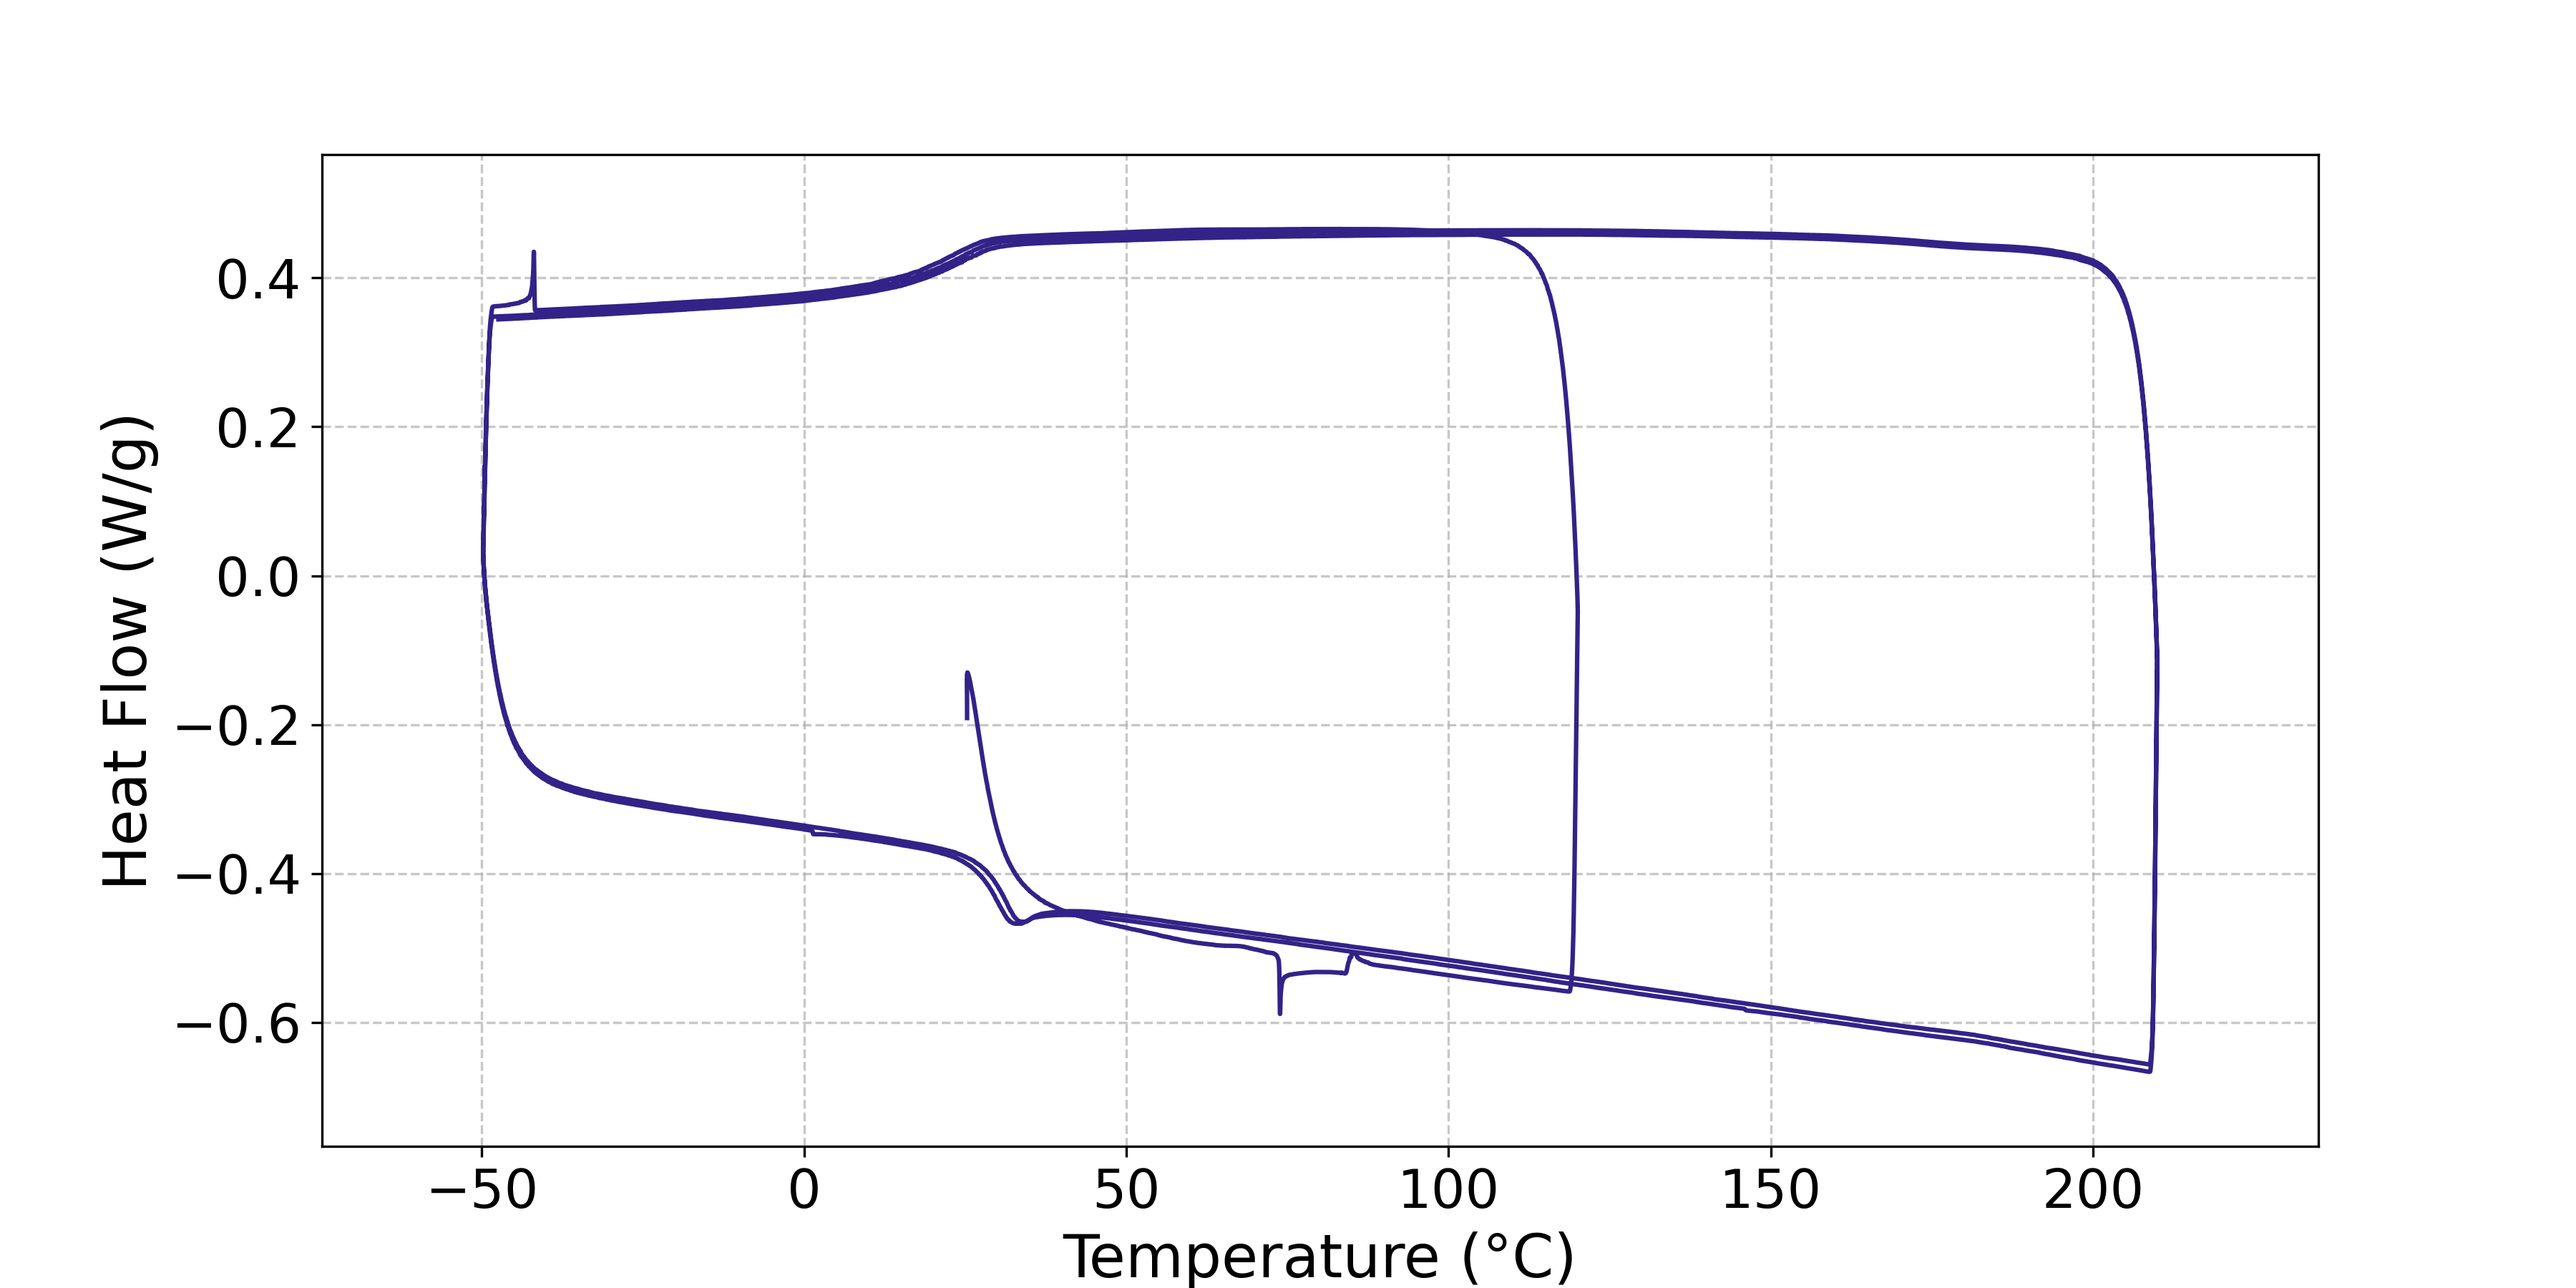
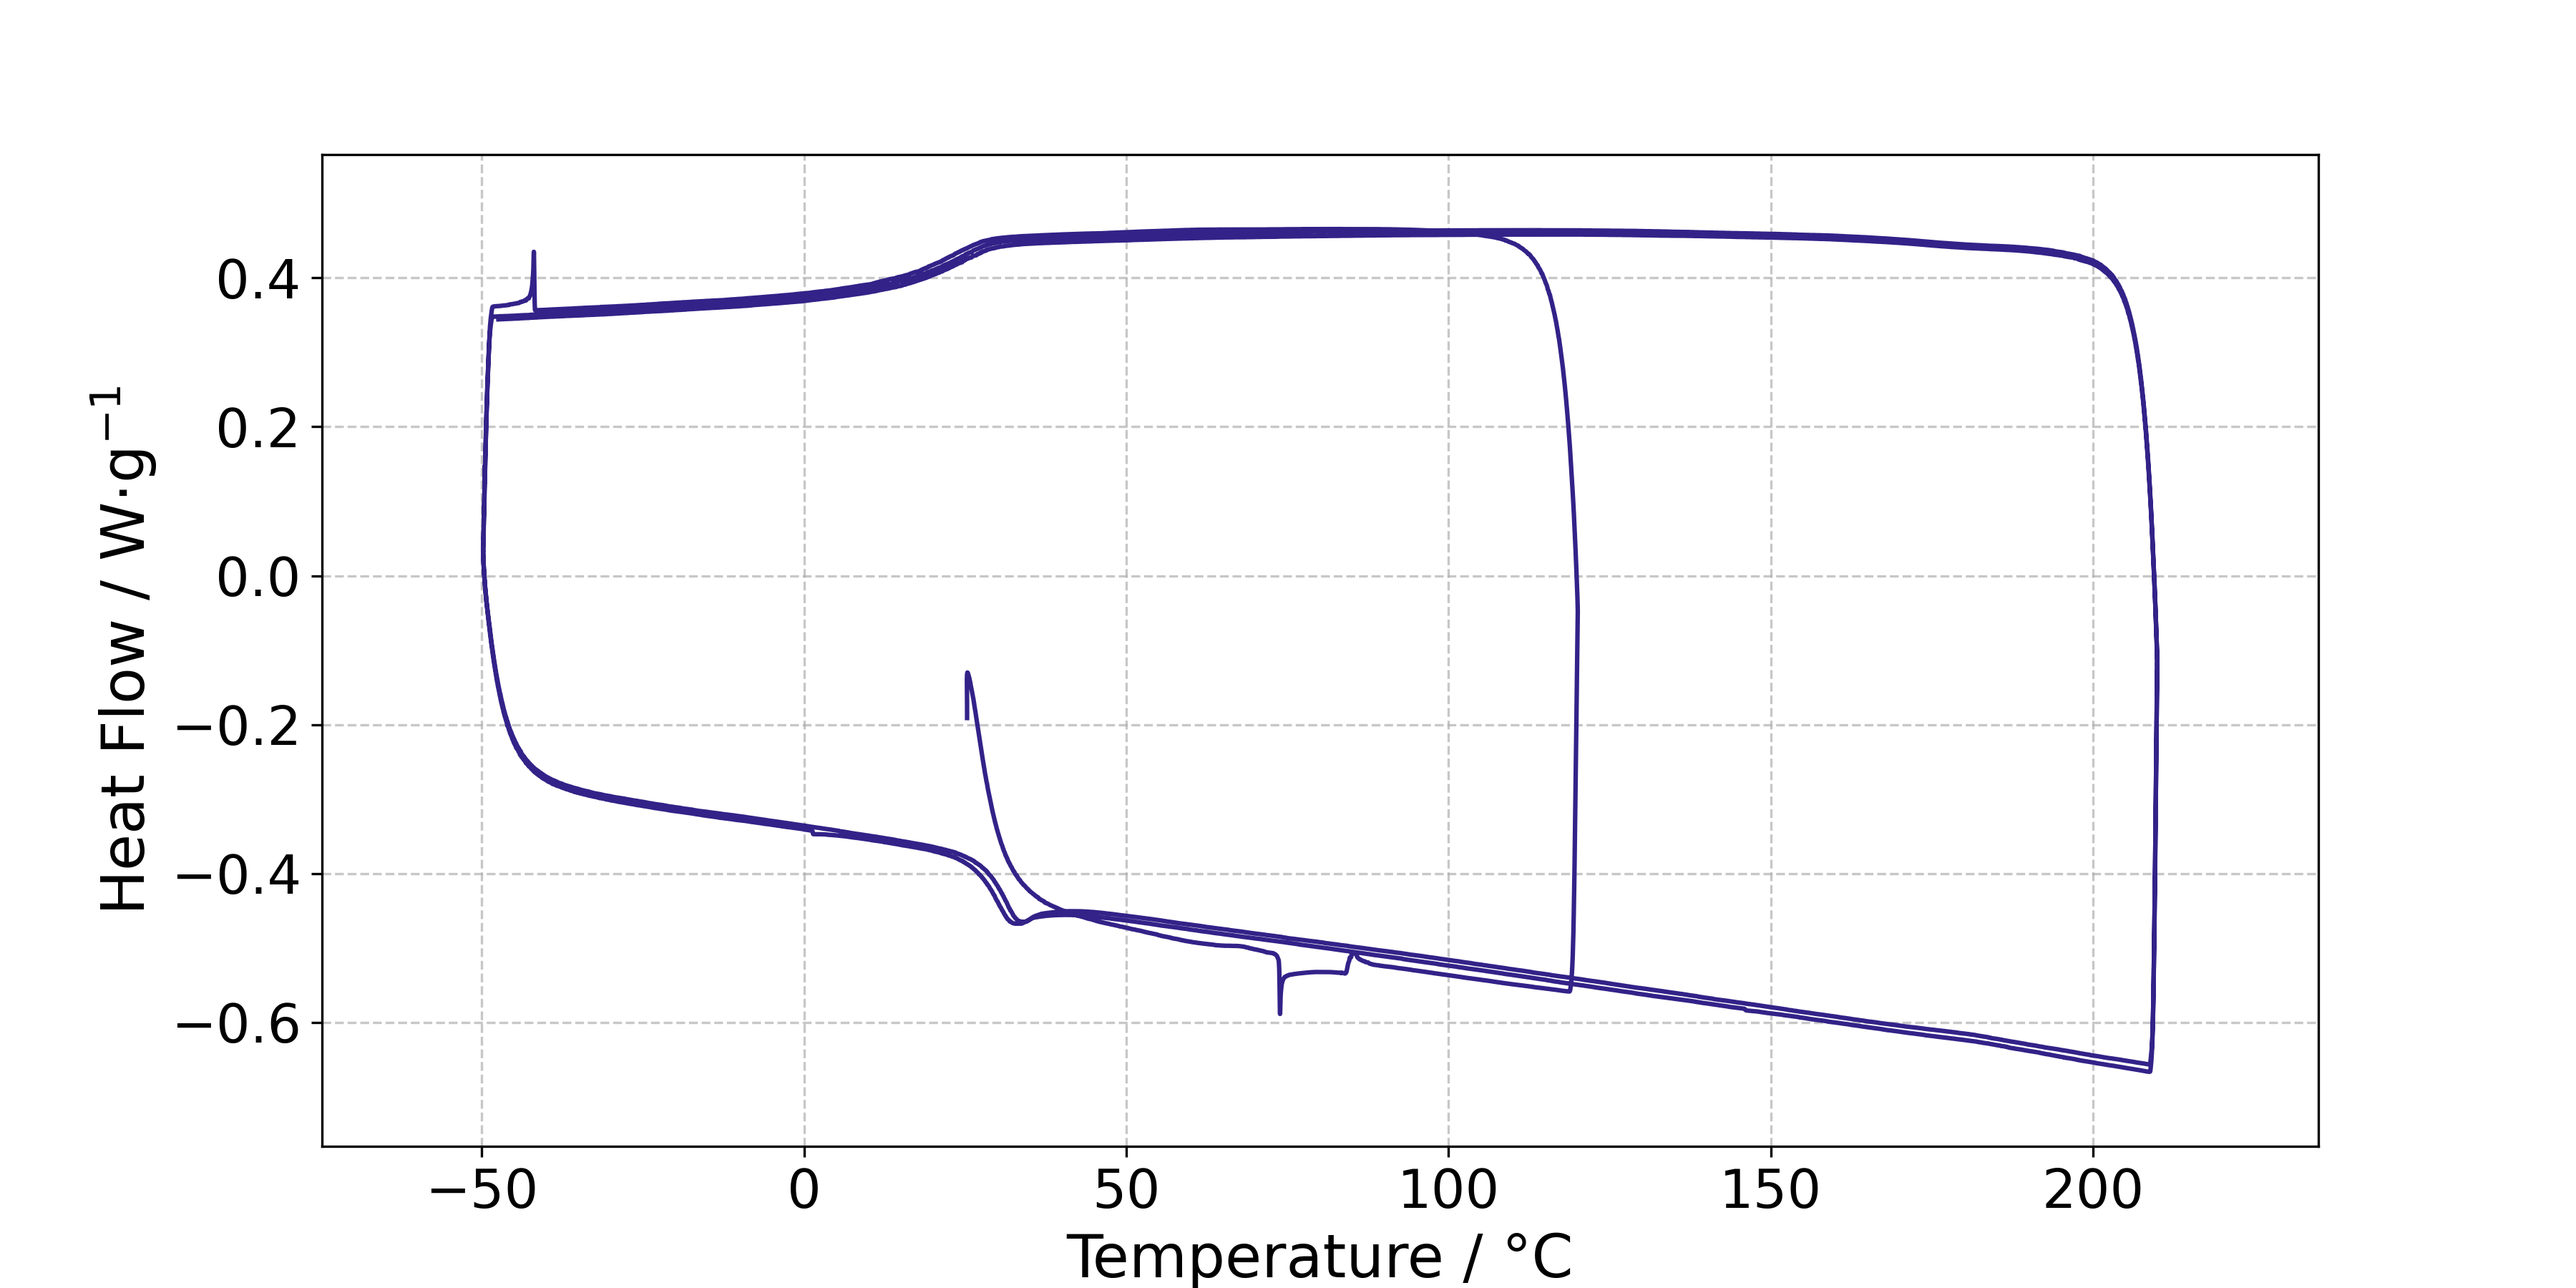
update DSC filenames and improve plot labels

Changed region(s): [[0.0311, 0.3111, 0.0622, 0.7156], [0.4044, 0.9644, 0.6222, 1.0]]

diff --git a/Example Date/My Sample/DSC/03.py b/Example Date/My Sample/DSC/03.py
@@ -45,8 +45,8 @@ def read_dsc_data(filename):
 def plot_dsc_curve(df):
     plt.figure(figsize=(12, 6))
     plt.plot(df['Temperature (°C)'], df['Heat Flow (W/g)'], color='#332288', linewidth=1.5)
-    plt.xlabel('Temperature (°C)', fontsize=20)
-    plt.ylabel('Heat Flow (W/g)', fontsize=20)
+    plt.xlabel('Temperature / °C', fontsize=20)
+    plt.ylabel('Heat Flow / W$\cdot$g$^{-1}$', fontsize=20)
     plt.xticks(fontsize=18)
     plt.yticks(fontsize=18)
     # plt.title('Full DSC Curve with Multiple Segments', fontsize=14)

diff --git a/Example Date/My Sample/DSC/01.py b/Example Date/My Sample/DSC/01.py
@@ -60,6 +60,6 @@ def plot_dsc_curve(df):
     plt.show()
 
 # Example usage
-filename = 'chabif01.txt'
+filename = 'LLM_ER_01.txt'
 df = read_dsc_data(filename)
 plot_dsc_curve(df)
